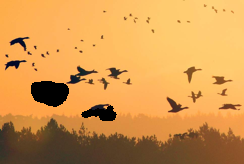
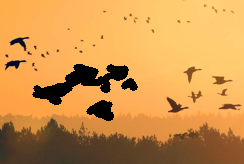
added inpainting masks and small changes harmonization

Changed region(s): [[0.1148, 0.3659, 0.5738, 0.6707], [0.3156, 0.6098, 0.4877, 0.7317]]

diff --git a/harmonization.py b/harmonization.py
@@ -45,6 +45,13 @@ if __name__ == '__main__':
                 mask = mask[:, :, :real.shape[2], :real.shape[3]]
                 ref = imresize_to_shape(ref, [real.shape[2], real.shape[3]], opt)
                 ref = ref[:, :, :real.shape[2], :real.shape[3]]
+
+            mask_ = (mask - mask.min()) / (mask.max() - mask.min())
+            real_with_mask = (1 - mask_) * real + mask_ * 1
+
+            plt.imsave('%s/real_with_mask.png' % dir2save, functions.convert_image_np(real_with_mask.detach()))
+            plt.imsave('%s/ref.png' % dir2save, functions.convert_image_np(ref.detach()))
+
             mask = functions.dilate_mask(mask, opt)
 
             N = len(reals) - 1
@@ -55,6 +62,10 @@ if __name__ == '__main__':
             in_s = in_s[:, :, :reals[n].shape[2], :reals[n].shape[3]]
             out = SinGAN_generate(Gs[n:], Zs[n:], reals, NoiseAmp[n:], opt, in_s, n=n, num_samples=1)
             out = (1-mask)*real+mask*out
+            real_with_mask = (1-mask)*real + mask*1
+            real = 1*real
+            plt.imsave('%s/real.png' % dir2save,functions.convert_image_np(real.detach()), vmin=0, vmax=1)
+            #plt.imsave('%s/real_with_mask_dilated.png' % dir2save,functions.convert_image_np(real_with_mask.detach()), vmin=0, vmax=1)
             plt.imsave('%s/start_scale=%d.png' % (dir2save,opt.harmonization_start_scale), functions.convert_image_np(out.detach()), vmin=0, vmax=1)
 
 
